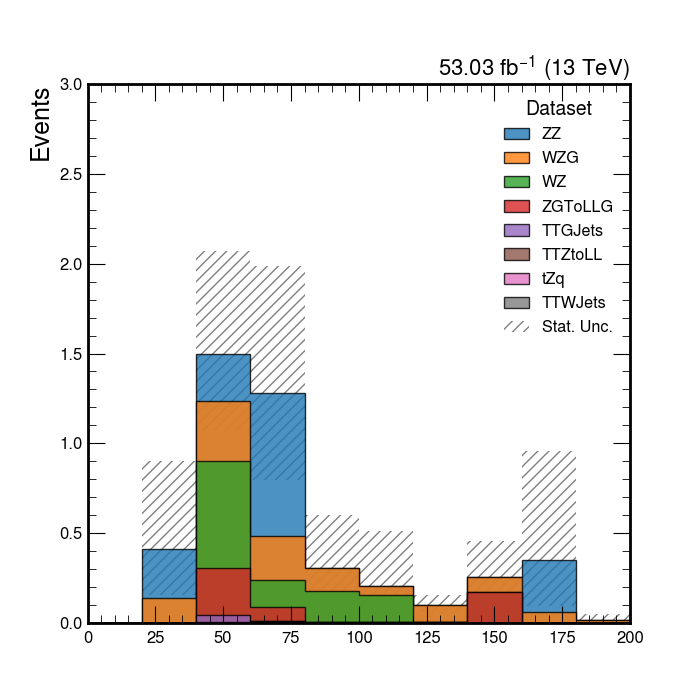
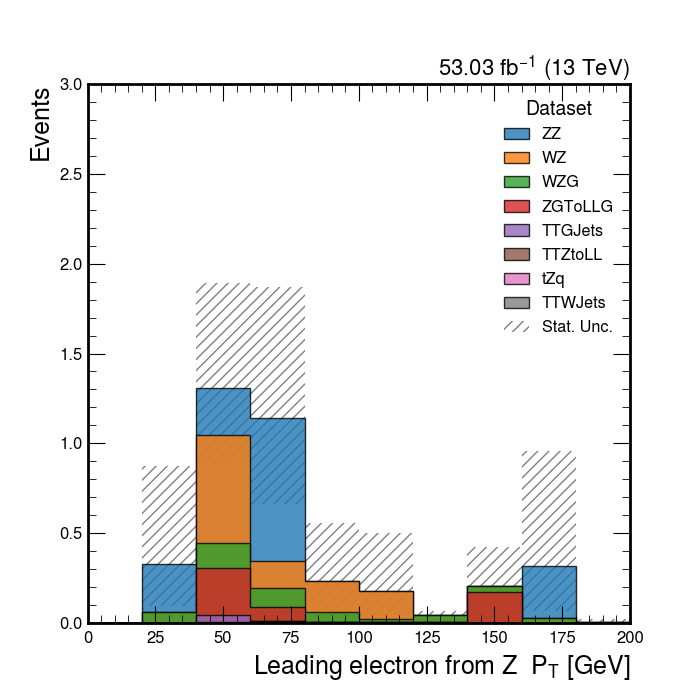
v

diff --git a/Coffea_WZG/Condor_coffea/N04_draw_2017.py b/Coffea_WZG/Condor_coffea/N04_draw_2017.py
@@ -8,8 +8,9 @@ import time
 ## Parameter set
 lumi= 53.03 * 1000
 
+
 GenDict={
-'WZG':128000,
+'WZG':55000,
 "DY":1933600,
 "WZ":7986000,
 "ZZ":2000000,
@@ -34,6 +35,13 @@ xsecDict={
 "TTGJets" : 4.078,
 "WGToLNuG": 1.249
 }
+
+
+hsum_mass_eee =  hist.Hist(
+	"Events",
+	hist.Cat("dataset","Dataset"),
+	hist.Bin("mass_eee","$m_{eee}$ [GeV]", 300, 0, 600),
+)
 
 
 hsum_MT = hist.Hist(
@@ -210,7 +218,7 @@ histdict = {'nPV':hsum_nPV,'nPV_nw':hsum_nPV_nw, "cutflow":hsum_cutflow,"ele1pt"
 'pho_EE_hoe':hsum_pho_EE_hoe,'pho_EE_sieie': hsum_pho_EE_sieie, 'pho_EE_Iso_all': hsum_pho_EE_Iso_all, 'pho_EE_Iso_chg':hsum_pho_EE_Iso_chg,\
 'pho_EB_pt':hsum_pho_EB_pt, 'pho_EB_eta':hsum_pho_EB_eta, 'pho_EB_phi':hsum_pho_EB_phi,\
 'pho_EB_hoe':hsum_pho_EB_hoe,'pho_EB_sieie': hsum_pho_EB_sieie, 'pho_EB_Iso_all': hsum_pho_EB_Iso_all, 'pho_EB_Iso_chg':hsum_pho_EB_Iso_chg,
-'met':hsum_met,'dR_aj':hsum_dR_aj,'MT':hsum_MT}
+'met':hsum_met,'dR_aj':hsum_dR_aj,'MT':hsum_MT,'mass_eee':hsum_mass_eee}
 
 
 
@@ -257,15 +265,19 @@ def reduce(folder,sample_list,histname):
 	return hist_ , sumwdict
 
 
-
 ## --File Directories
-file_path = "SR_210419"
-
-
+file_path = "Base_line_210416_Allweight"
+#file_path = "Base_line_210416_no_weight"
+#file_path = "SR_210419"
+#file_path = "CR_Zjets_210419"
+#file_path = "CR_tenriched_210419"
+#file_path = "CR_conversion_210419"
+#file_path = "210420_SEN_BaseLine"
 
 
 ## --Sample Lists
 sample_list = ['DY' ,'WZ' ,'ZZ' ,'TTWJets','TTZtoLL','tZq' ,'Egamma','WZG','ZGToLLG','TTGJets','WGToLNuG']
+
 
 
 
@@ -274,19 +286,20 @@ sample_list = ['DY' ,'WZ' ,'ZZ' ,'TTWJets','TTZtoLL','tZq' ,'Egamma','WZG','ZGTo
 		
 		# --- MET --- #
 
-#histname = "met"; xmin=0; xmax=200; ymin=0; ymax=3;
+#histname = "met"; xmin=0; xmax=200; ymin=0; ymax=20; 
 
 		# --- Electron --- #
-#histname = "mass"; xmin=60; xmax=120; ymin=0; ymax=3.5;
+#histname = "mass"; xmin=0; xmax=200; ymin=0; ymax=20;
+#histname = "mass_eee", xmin=0, xmax=600, ymin=0, ymax=10;
 #histname = "MT"; xmin=0; xmax=200; ymin=0; ymax=8;
 #histname = "nPV"; xmin=0; xmax=100; ymin=1; ymax=1e+3;
 #histname = "nPV_nw"; xmin=0; xmax=100; ymin=1; ymax=1e+3;
 
-#histname = "ele1pt"; xmin=0; xmax=200; ymin=0; ymax=3;
-#histname = "ele2pt"; xmin=0; xmax=200; ymin=0; ymax=5; 
-#histname = "ele3pt"; xmin=0; xmax=200; ymin=0; ymax=3;
+#histname = "ele1pt"; xmin=0; xmax=200; ymin=0; ymax=10;
+#histname = "ele2pt"; xmin=0; xmax=200; ymin=0; ymax=20; 
+#histname = "ele3pt"; xmin=0; xmax=200; ymin=0; ymax=20;
 
-#histname = "ele1eta"; xmin=-2.5; xmax=2.5; ymin=0; ymax=30;
+#histname = "ele1eta"; xmin=-2.5; xmax=2.5; ymin=100; ymax=5e+6;
 #histname = "ele2eta"; xmin=-2.5; xmax=2.5; ymin=100; ymax=5e+6;
 
 #histname = "ele1phi"; xmin=-3.15; xmax=3.15; ymin=100; ymax=5e+6;
@@ -295,18 +308,18 @@ sample_list = ['DY' ,'WZ' ,'ZZ' ,'TTWJets','TTZtoLL','tZq' ,'Egamma','WZG','ZGTo
 #histname = "cutflow"; xmin=0; xmax=6; ymin=1; ymax=5e+6
 
 		# --- Photon --- #
-#histname = "pho_EB_pt"; xmin=0; xmax=200; ymin=0; ymax=4;
-#histname = "pho_EB_eta"; xmin=-3; xmax=3; ymin=0; ymax=200;
+
+#histname = "pho_EB_pt"; xmin=0; xmax=200; ymin=0; ymax=15;
+#histname = "pho_EB_eta"; xmin=-3; xmax=3; ymin=1; ymax=5e+6;
 #histname = "pho_EB_phi"; xmin=-3.15; xmax=3.15; ymin=1; ymax=5e+6;
 #histname = "pho_EB_hoe"; xmin=0; xmax=0.15; ymin=0.001; ymax=1e+7;
 #histname = "pho_EB_sieie"; xmin=0; xmax=0.012; ymin=0.01; ymax=5e+6;
 #histname = "pho_EB_Iso_all"; xmin=0; xmax=0.12; ymin=0.01; ymax=5e+7;
 #histname = "pho_EB_Iso_chg"; xmin=0; xmax=0.03; ymin=0.01; ymax=5e+7;
 
-
 #histname = "dR_aj"; xmin=0; xmax=1; ymin=0.01; ymax=10;
-histname = "pho_EE_pt"; xmin=0; xmax=200; ymin=0; ymax=1;
-#histname = "pho_EE_eta"; xmin=-3; xmax=3; ymin=0; ymax=200;
+histname = "pho_EE_pt"; xmin=0; xmax=200; ymin=0; ymax=8;
+#histname = "pho_EE_eta"; xmin=-3; xmax=3; ymin=1; ymax=5e+6;
 #histname = "pho_EE_phi"; xmin=-3.15; xmax=3.15; ymin=1; ymax=5e+6;
 #histname = "pho_EE_hoe"; xmin=0; xmax=0.2; ymin=0.001; ymax=5e+6;
 #histname = "pho_EE_sieie"; xmin=0; xmax=0.3; ymin=0.01; ymax=5e+6;
@@ -339,25 +352,18 @@ scales={
 
 h1.scale(scales,axis='dataset')
 
-
-
 ## --Rebin
-
 #h1 = h1.rebin(histname,hist.Bin("met","met [GeV]", 10, 0, 200))
+#h1 = h1.rebin(histname,hist.Bin("mass","Z mass",10,0,200))
+#h1 = h1.rebin(histname,hist.Bin("MT","W MT [GeV]", 20, 0, 200))
 
-#h1 = h1.rebin(histname,hist.Bin("mass","Z mass",10,60,120))
-#h1 = h1.rebin(histname,hist.Bin("MT","W MT [GeV]", 10, 0, 200))
-
-#h1 = h1.rebin(histname,hist.Bin("ele1pt","Leading electron from Z  $P_{T}$ [GeV]",10,0,200))
-#h1 = h1.rebin(histname,hist.Bin("ele2pt","Subleading electron from Z  $P_{T}$ [GeV]",10,0,200))
-#h1 = h1.rebin(histname,hist.Bin("ele3pt","electron from W  $P_{T}$ [GeV]",10,0,200))
+#h1 = h1.rebin(histname,hist.Bin("ele1pt","Leading electron from Z  $P_{T}$ [GeV]",30,0,600))
+#h1 = h1.rebin(histname,hist.Bin("ele2pt","Subleading electron from Z  $P_{T}$ [GeV]",30,0,600))
+#h1 = h1.rebin(histname,hist.Bin("ele3pt","electron from W  $P_{T}$ [GeV]",30,0,600))
 #h1 = h1.rebin(histname,hist.Bin("mass","M_{ee} [GeV]",50,0,200))
 
 #h1 = h1.rebin(histname,hist.Bin("pho_EB_pt","Photon EB $P_{T}$ [GeV]", 30, 0, 600))
 h1 = h1.rebin(histname,hist.Bin("pho_EE_pt","Photon EE $P_{T}$ [GeV]", 30, 0, 600))
-
-
-
 
 
 
@@ -379,10 +385,11 @@ plt.rcParams.update({
 	'xtick.labelsize': 12,
 	'ytick.labelsize': 12
 })
-fig, ax  = plt.subplots(
-	nrows=1,
+fig, (ax, rax) = plt.subplots(
+	nrows=2,
 	ncols=1,
 	figsize=(7,7),
+	gridspec_kw={"height_ratios": (3, 1)},
 	sharex=True
 )
 
@@ -390,11 +397,12 @@ fig.subplots_adjust(hspace=.07)
 
 
 from cycler import cycler
-
+#colors = ['#a6cee3','#1f78b4','#b2df8a','#33a02c','#fb9a99','#e31a1c']
 
 prop_cycle = plt.rcParams['axes.prop_cycle']
 colors = prop_cycle.by_key()['color']
 
+#colors= ['#e31a1c','navy','g','b','orange','pink','r','yellow']
 
 ax.set_prop_cycle(cycler(color=colors))
 
@@ -403,8 +411,6 @@ fill_opts = {
 	'edgecolor': (0,0,0,0.3),
 	'alpha': 0.8
 }
-
-
 error_opts = {
 	'label': 'Stat. Unc.',
 	'hatch': '///',
@@ -412,9 +418,13 @@ error_opts = {
 	'edgecolor': (0,0,0,.5),
 	'linewidth': 0
 }
-
-
-np.set_printoptions(suppress=True)
+data_err_opts = {
+	'linestyle': 'none',
+'marker': '.',
+'markersize': 10.,
+'color': 'k',
+'elinewidth': 1,
+}
 
 
 print("##" * 20)
@@ -422,49 +432,62 @@ for i,j in h1.values().items():
 	print(i,":",j[-2])
 
 
-
-
 # MC plotting
 import re
-samplename = re.compile('(?!Egamma)')
-#samplename = 'TTZtoLL'
+notdata = re.compile('(?!Egamma)')
 
 hist.plot1d(
-	h1[samplename],
+	h1[notdata],
 	ax=ax,
 	clear=False,
 	stack=True,
-	order=['TTWJets' ,'tZq' ,'TTZtoLL' ,'TTGJets' ,'ZGToLLG' ,'WZG' ,'WZ' ,'ZZ'],
+	order=['TTWJets' ,'tZq' ,'TTGJets' ,'TTZtoLL' ,'WZ' ,'ZZ' ,'ZGToLLG' ,'WZG'],
 	fill_opts=fill_opts,
 	error_opts = error_opts,
 )
 
-'''
-histname = 'sen_TTZtoLL'
 
+# DATA plotting
 hist.plot1d(
-	h1[histname],
+
+	h1['Egamma'],
 	ax=ax,
 	clear=False,
-#	fill_opts=fill_opts,
-	#error_opts = error_opts,
+	error_opts=data_err_opts
+	
 )
-'''
+
+#print(h1['Egamma'].values())
+
+# Ratio Plot
+hist.plotratio(
+	num=h1['Egamma'].sum("dataset"),
+	denom=h1[notdata].sum("dataset"),
+	ax=rax,
+	error_opts=data_err_opts,
+	denom_fill_opts={},
+	guide_opts={},
+	unc='num'
+)
+
+np.set_printoptions(suppress=True)
 
 
 
+rax.set_ylabel('Data/MC')
 
+rax.set_ylim(0,2)
 
 
 ax._get_lines.prop_cycler = ax._get_patches_for_fill.prop_cycler
 ax.autoscale(axis='x', tight=True)
 ax.set_ylim(ymin,ymax)
 ax.set_xlim(xmin,xmax)
-#ax.set_xlabel('')
+ax.set_xlabel('')
 #ax.set_yscale('log')
 
 
-#leg = ax.legend()
+##leg = ax.legend()
 
 
 lum = plt.text(1., 1., r"53.03 fb$^{-1}$ (13 TeV)",

diff --git a/Coffea_WZG/Condor_coffea/N04_draw_2018.py b/Coffea_WZG/Condor_coffea/N04_draw_2018.py
@@ -10,7 +10,7 @@ lumi= 53.03 * 1000
 
 
 GenDict={
-'WZG':55000,
+'WZG':128000,
 "DY":1933600,
 "WZ":7986000,
 "ZZ":2000000,
@@ -441,7 +441,7 @@ hist.plot1d(
 	ax=ax,
 	clear=False,
 	stack=True,
-	order=['TTWJets' ,'tZq' ,'TTGJets' ,'TTZtoLL' ,'WZ' ,'ZZ' ,'ZGToLLG' ,'WZG'],
+	order=['TTWJets' ,'tZq' ,'TTGJets' ,'TTZtoLL' ,'WZG' ,'WZ' ,'ZZ' ,'ZGToLLG'],
 	fill_opts=fill_opts,
 	error_opts = error_opts,
 )
